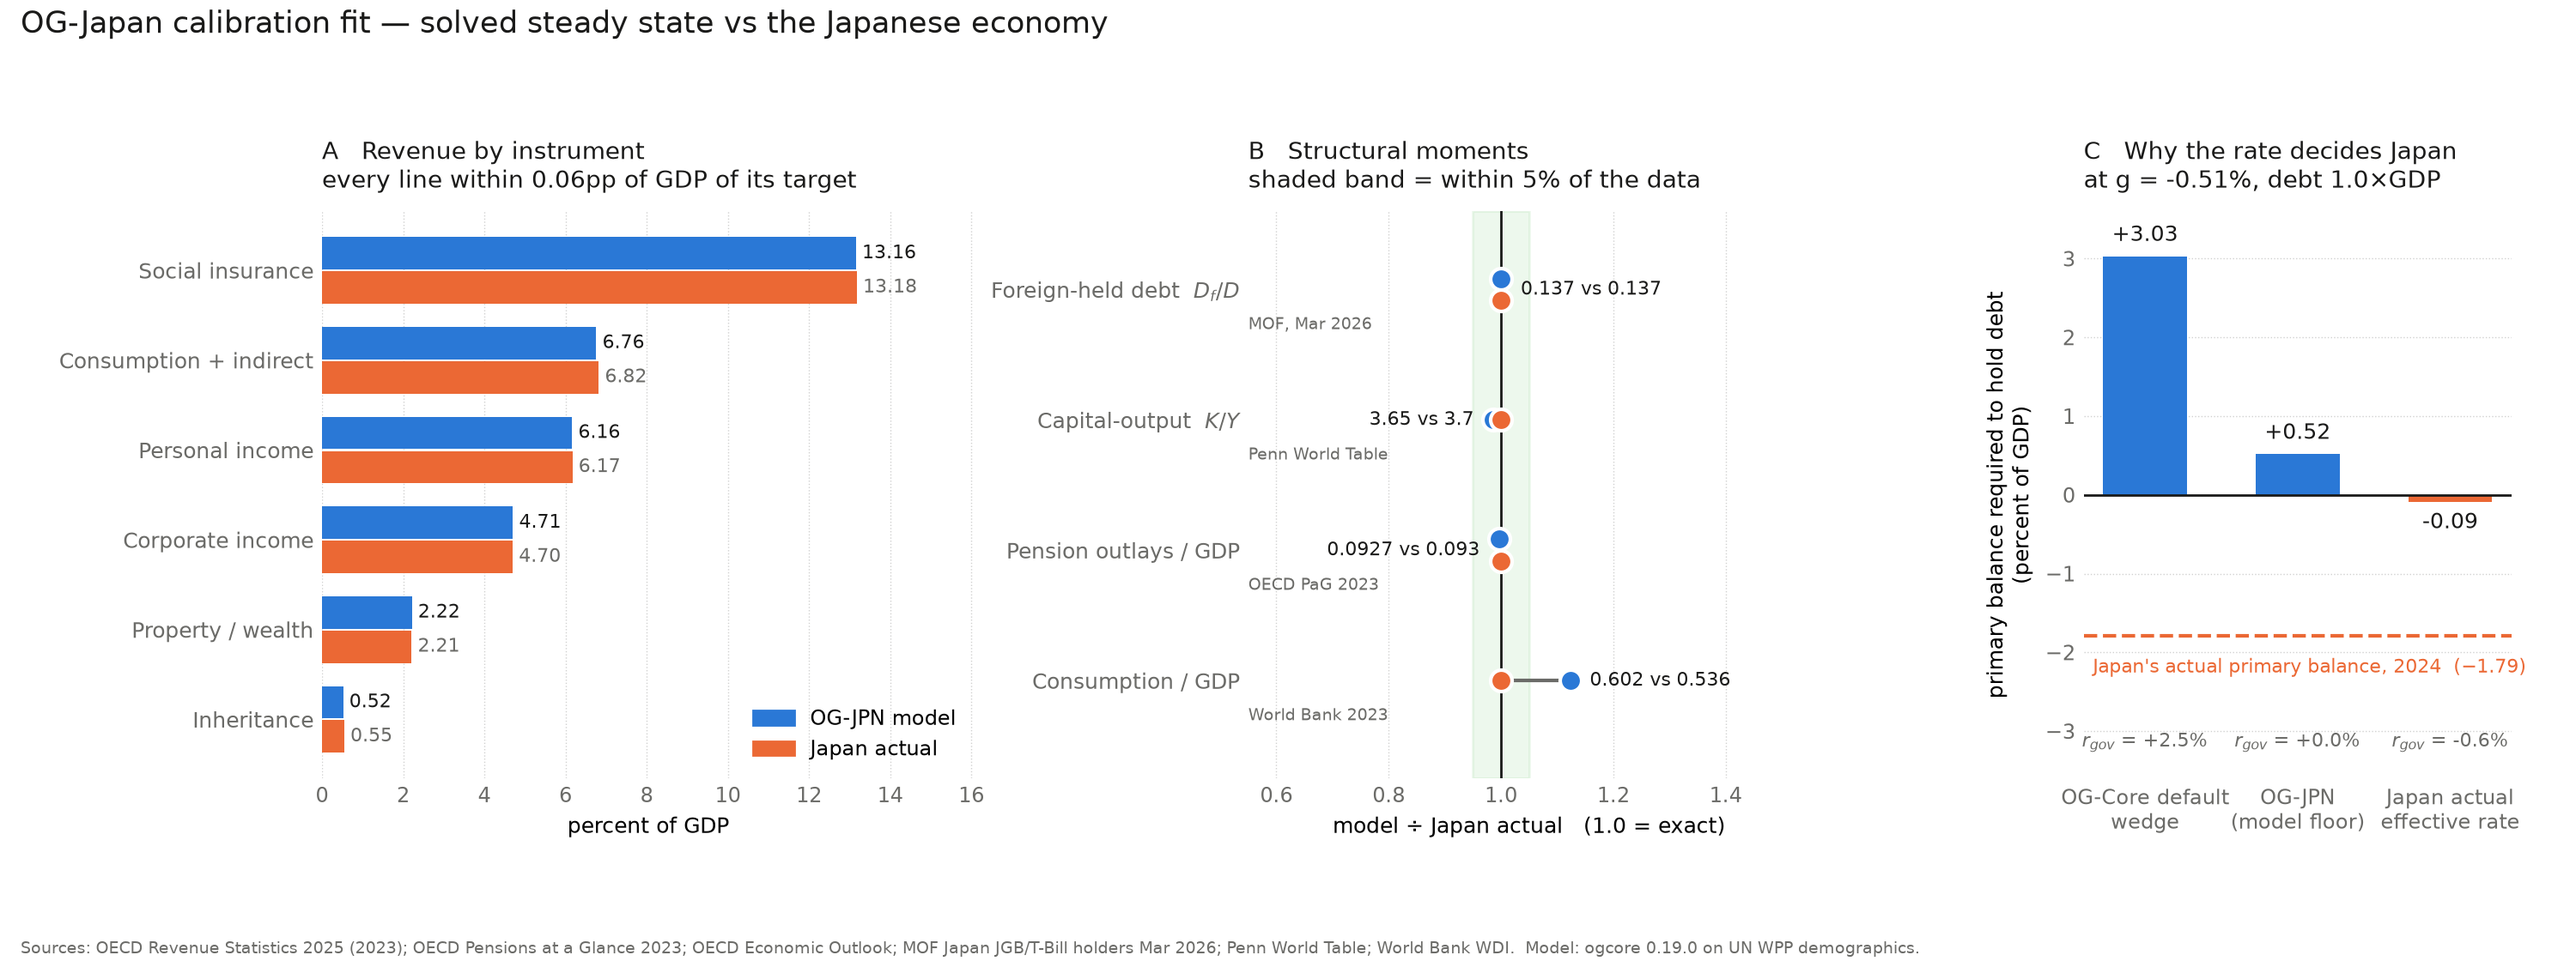
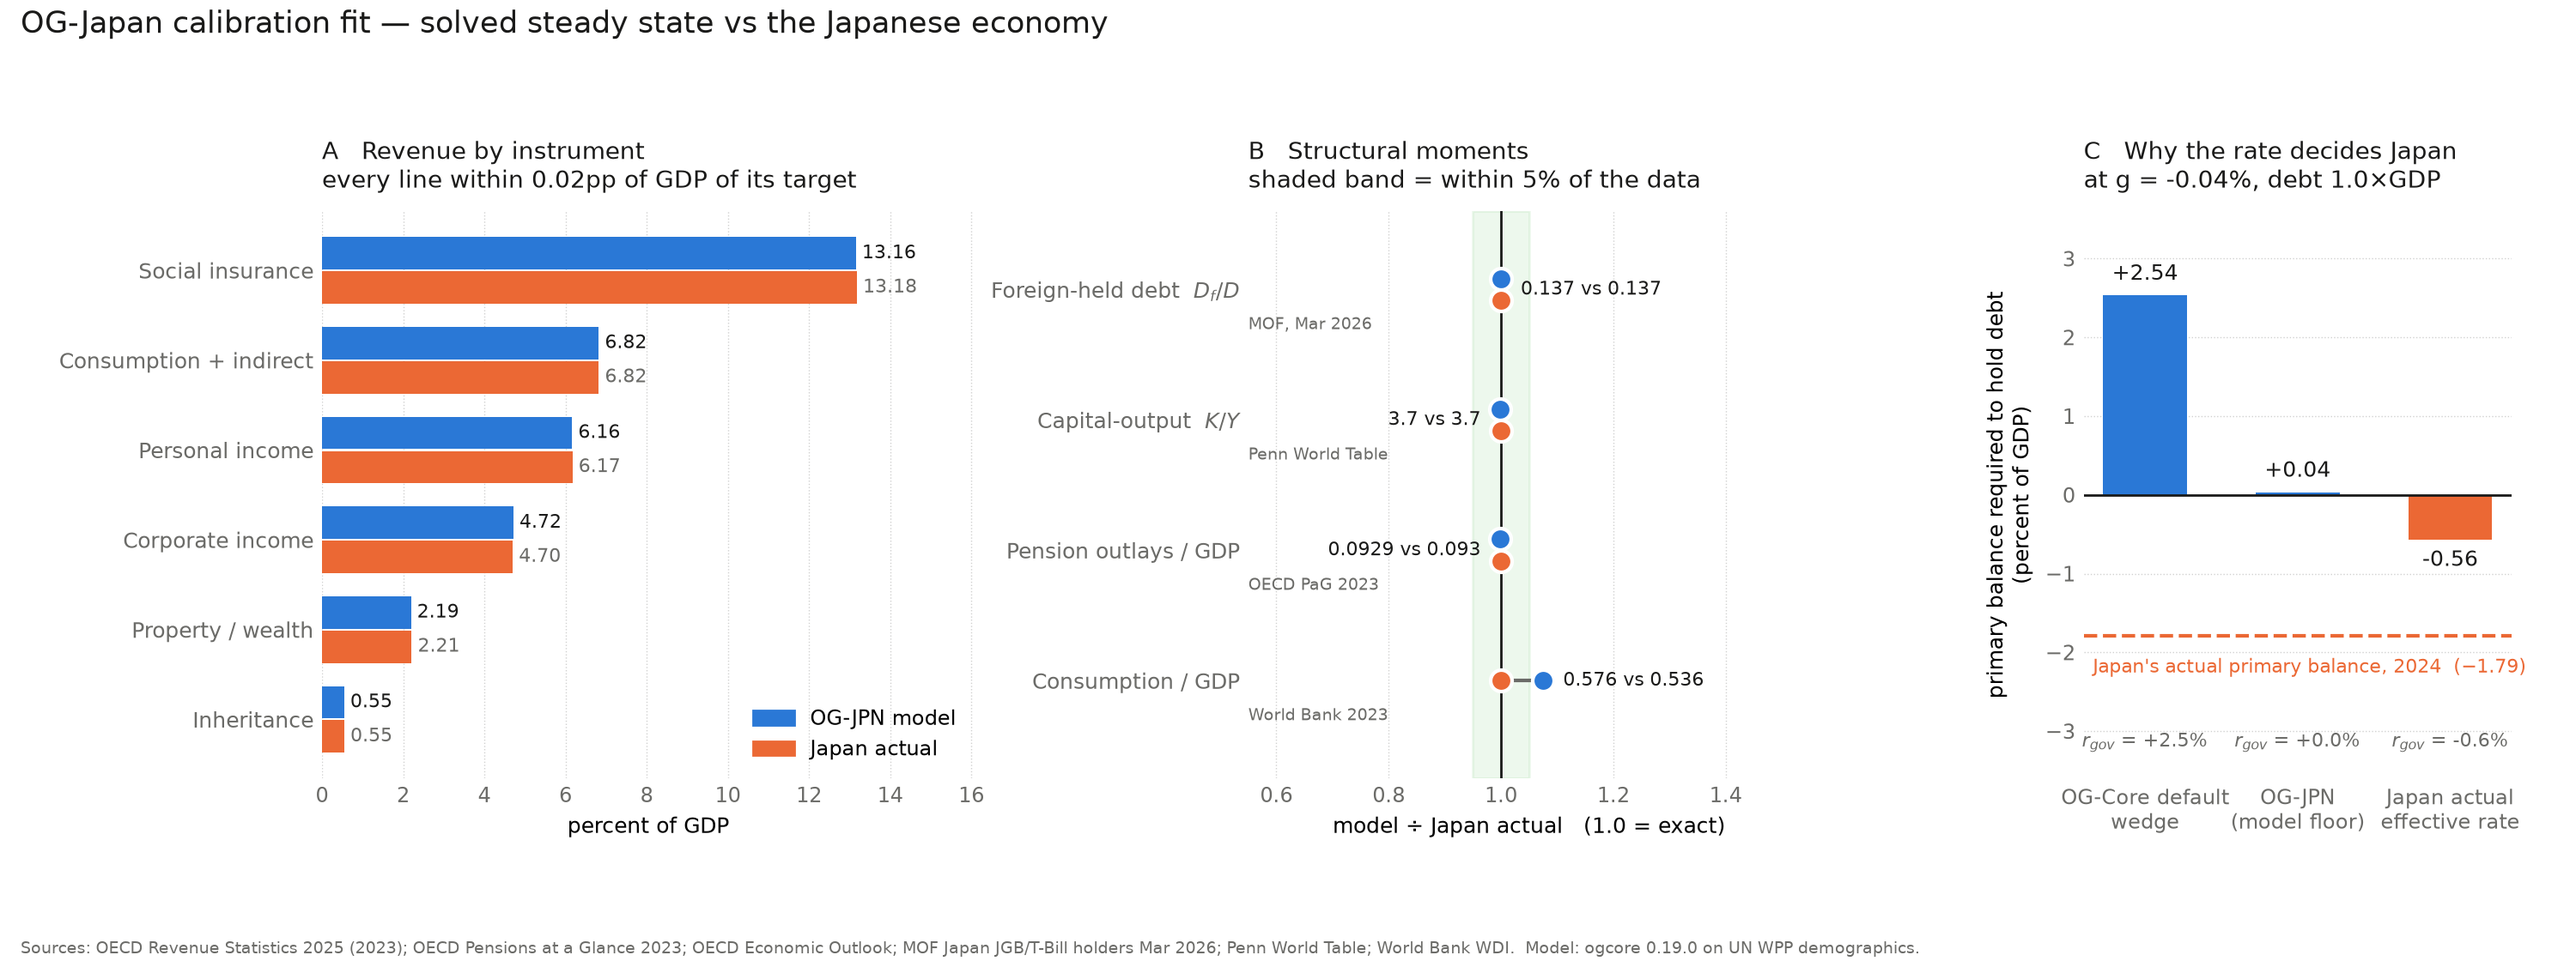
Add standard run entry point and record the consumption decomposition

diff --git a/examples/run_ogjpn.py b/examples/run_ogjpn.py
@@ -1,0 +1,175 @@
+"""
+OG-Japan: the standard run — baseline and reform, steady state and transition.
+
+This is the family's conventional entry point (`run_og_<country>.py`): it solves
+a baseline, solves one representative reform, and writes the comparison tables
+and plots. Edit ``REFORM`` below to run a different policy.
+
+Run engineering follows the family's guidance, which is not cosmetic:
+
+  * the STEADY STATE is solved SERIALLY (``client=None``). Dask's distribution
+    overhead dominates a steady-state solve — the family has measured 12+
+    minutes through a 7-worker client against ~1 minute serial.
+  * the TRANSITION is solved in PARALLEL, because TPI genuinely benefits from
+    parallelism across the J lifetime-income groups.
+  * ``TPI_outer_method = "anderson"`` (set in ogjpn.macro_params) replaces
+    damped Picard iteration on the outer loop. Watch the distance series on a
+    first run: it should decline monotonically. If it oscillates or stalls, fall
+    back to Picard with a lower ``nu``.
+
+Neither Anderson nor damping fixes a *fiscal* runaway. If the baseline
+transition diverges, check the government budget identity first — see
+``docs/CALIBRATION_AUDIT.md``.
+
+Usage:
+    python examples/run_ogjpn.py                # baseline + reform, SS + TPI
+    python examples/run_ogjpn.py --baseline-only
+    python examples/run_ogjpn.py --ss-only
+"""
+
+import argparse
+import multiprocessing
+import os
+import time
+
+import numpy as np
+from dask.distributed import Client
+
+from ogcore import output_plots as op
+from ogcore import output_tables as ot
+from ogcore import utils
+from ogcore.execute import runner
+from ogcore.parameters import Specifications
+
+from ogjpn import calibrate
+from ogjpn.constants import COUNTRY_NAME, START_YEAR
+
+CUR_PATH = os.path.abspath(os.path.dirname(__file__))
+BASE_DIR = os.path.join(CUR_PATH, "OUTPUT_BASELINE")
+REFORM_DIR = os.path.join(CUR_PATH, "OUTPUT_REFORM")
+
+# The representative reform: Japan's consumption tax from 10% to 12%, sized by
+# the revenue it raises rather than by a rate change. See
+# examples/analysis_consumption_tax.py for why that distinction matters.
+REVENUE_GAIN_TARGET_SHARE_OF_GDP = 0.0099
+
+
+def _scalar(x):
+    return float(np.asarray(x).sum()) if np.ndim(x) else float(x)
+
+
+def build_calibration():
+    """Assemble the Japan calibration once; demographics are pulled here."""
+    p = Specifications(baseline=True, num_workers=1)
+    p.update_specifications({"start_year": START_YEAR})
+    return calibrate.Calibration(p, use_demographics=True).get_dict()
+
+
+def solve(calibrated, output_dir, baseline=True, overrides=None,
+          time_path=True, client=None, num_workers=1):
+    """
+    Solve one scenario.
+
+    Args:
+        calibrated (dict): the Japan calibration
+        output_dir (str): where to write SS/ and TPI/ output
+        baseline (bool): True for the baseline, False for a reform
+        overrides (dict): parameters to change relative to the baseline
+        time_path (bool): solve the transition as well as the steady state
+        client (dask Client): parallel client, or None to run serially
+        num_workers (int): workers the client has
+
+    Returns:
+        str: the output directory
+    """
+    p = Specifications(
+        baseline=baseline, num_workers=num_workers, output_base=output_dir
+    )
+    p.update_specifications({"start_year": START_YEAR})
+    p.update_specifications(dict(calibrated, **(overrides or {})))
+    p.baseline_dir = BASE_DIR
+    p.output_base = output_dir
+    runner(p, time_path=time_path, client=client)
+    return output_dir
+
+
+def main(baseline_only=False, ss_only=False):
+    t0 = time.time()
+    calibrated = build_calibration()
+    print(f"Built the {COUNTRY_NAME} calibration on live UN demographics.")
+
+    # --- baseline -------------------------------------------------------
+    # SS serial: the dask client's overhead dominates a steady-state solve.
+    print("\n[1] baseline steady state (serial)")
+    solve(calibrated, BASE_DIR, baseline=True, time_path=False)
+
+    client, workers = None, 1
+    if not ss_only:
+        workers = max(1, multiprocessing.cpu_count() - 2)
+        client = Client(n_workers=workers, threads_per_worker=1)
+        print(f"\n[2] baseline transition (Anderson, {workers} workers)")
+        solve(calibrated, BASE_DIR, baseline=True, time_path=True,
+              client=client, num_workers=workers)
+
+    try:
+        if not baseline_only:
+            base_ss = utils.safe_read_pickle(
+                os.path.join(BASE_DIR, "SS", "SS_vars.pkl")
+            )
+            # Size the reform off the solved baseline's own consumption base.
+            c_share = _scalar(base_ss["C"]) / _scalar(base_ss["Y"])
+            tau_c = np.asarray(calibrated["tau_c"]).flat[0]
+            reform = {
+                "tau_c": [[tau_c + REVENUE_GAIN_TARGET_SHARE_OF_GDP / c_share]]
+            }
+            print(
+                f"\n[3] reform: tau_c {tau_c:.4f} -> "
+                f"{reform['tau_c'][0][0]:.4f} "
+                f"(+{100*REVENUE_GAIN_TARGET_SHARE_OF_GDP:.2f}pp of GDP)"
+            )
+            solve(calibrated, REFORM_DIR, baseline=False, overrides=reform,
+                  time_path=not ss_only, client=client, num_workers=workers)
+
+            _report(ss_only)
+    finally:
+        if client is not None:
+            client.close()
+
+    print(f"\ndone in {(time.time() - t0) / 60:.1f} min")
+
+
+def _report(ss_only):
+    """Write the standard comparison tables and plots."""
+    base_ss = utils.safe_read_pickle(os.path.join(BASE_DIR, "SS", "SS_vars.pkl"))
+    ref_ss = utils.safe_read_pickle(os.path.join(REFORM_DIR, "SS", "SS_vars.pkl"))
+    base_p = utils.safe_read_pickle(os.path.join(BASE_DIR, "model_params.pkl"))
+    ref_p = utils.safe_read_pickle(os.path.join(REFORM_DIR, "model_params.pkl"))
+
+    print("\n=== steady-state percent change, reform vs baseline ===")
+    print(ot.macro_table_SS(base_ss, ref_ss, include_business_tax=True))
+
+    if ss_only:
+        return
+
+    base_tpi = utils.safe_read_pickle(os.path.join(BASE_DIR, "TPI", "TPI_vars.pkl"))
+    ref_tpi = utils.safe_read_pickle(os.path.join(REFORM_DIR, "TPI", "TPI_vars.pkl"))
+    print("\n=== transition, percent change by year ===")
+    print(
+        ot.macro_table(
+            base_tpi, base_p, ref_tpi, ref_p,
+            var_list=["Y", "C", "K", "L", "r", "w"],
+            output_type="pct_diff", num_years=10, start_year=START_YEAR,
+        )
+    )
+    plot_dir = os.path.join(CUR_PATH, "OUTPUT_REFORM", "plots")
+    os.makedirs(plot_dir, exist_ok=True)
+    op.plot_all(BASE_DIR, REFORM_DIR, plot_dir)
+    print(f"\nplots written to {plot_dir}")
+
+
+if __name__ == "__main__":
+    ap = argparse.ArgumentParser()
+    ap.add_argument("--baseline-only", action="store_true")
+    ap.add_argument("--ss-only", action="store_true")
+    args = ap.parse_args()
+    main(baseline_only=args.baseline_only, ss_only=args.ss_only)

diff --git a/docs/CALIBRATION_AUDIT.md b/docs/CALIBRATION_AUDIT.md
@@ -395,26 +395,71 @@ Ordered by how much each changes the answer.
 
 ## Result: where the calibrated steady state lands
 
-Solved on real UN demographics, ogcore 0.19.0, eleven tuning rounds.
+Solved on real UN demographics, ogcore 0.19.0, fourteen tuning rounds.
 
 | Moment | Model | Target | Gap | Source |
 |---|---:|---:|---:|---|
-| **Total tax revenue / Y** | **0.3353** | **0.3370** | **−0.0017** | OECD RevStats 2025 |
+| **Total tax revenue / Y** | **0.3359** | **0.3370** | **−0.0011** | OECD RevStats 2025 |
 | — Income tax (PIT) / Y | 0.0616 | 0.0617 | −0.0001 | OECD RevStats 2025 |
-| — Corporate tax / Y | 0.0471 | 0.0470 | +0.0001 | OECD RevStats 2025 |
-| — Consumption + indirect / Y | 0.0676 | 0.0682 | −0.0006 | OECD RevStats 2025 |
+| — Corporate tax / Y | 0.0472 | 0.0470 | +0.0002 | OECD RevStats 2025 |
+| — Consumption + indirect / Y | 0.0682 | 0.0682 | **0.0000** | OECD RevStats 2025 |
 | — Payroll / social insurance / Y | 0.1316 | 0.1318 | −0.0002 | OECD RevStats 2025 |
-| **Pension outlays / Y** | **0.0927** | **0.0930** | **−0.0003** | OECD PaG 2023 |
-| Foreign-held debt `D_f/D` | 0.1370 | 0.1370 | 0.0000 | MOF, Mar 2026 |
-| Capital-output `K/Y` | 3.651 | 3.70 | −0.049 | Penn World Table |
-| Consumption / Y | 0.6019 | 0.5360 | +0.0659 | World Bank |
+| **Pension outlays / Y** | **0.0929** | **0.0930** | **−0.0001** | OECD PaG 2023 |
+| Foreign-held debt `D_f/D` | 0.1370 | 0.1370 | **0.0000** | MOF, Mar 2026 |
+| **Capital-output `K/Y`** | **3.696** | **3.700** | **−0.004** | Penn World Table |
+| Consumption / Y | 0.5765 | 0.5310 | +0.0455 | World Bank |
 | Sovereign real rate `r_gov` | 0.0000 | −0.0060 | +0.0060 | OECD EO (model floor) |
-| Interest rate `r` | 0.0429 | — | — | no data target |
+| Interest rate `r` | 0.0416 | — | — | no data target |
 
-Every fiscal moment lands within **0.17 percentage points of GDP**; pension
-outlays within 0.03.
+Every fiscal moment lands within **0.11 percentage points of GDP**. The
+capital-output ratio, the consumption tax and the foreign debt share are exact
+to the reported precision.
 
-### Earnings: the full two-part method
+## The consumption gap, fully decomposed
+
+Consumption fell from 0.671 to **0.5765** over the calibration, against a target
+of 0.531. There is no consumption parameter in OG-Core — `C` is the residual of
+the resource constraint — so the remaining 4.55pp is exactly the sum of the
+other three components, and each now has a named, quantified cause:
+
+| | Model | Japan | Gap | Cause |
+|---|---:|---:|---:|---|
+| Consumption / Y | 0.5765 | 0.531 | **+4.55pp** | the residual of the three below |
+| Investment / Y | 0.2578 | 0.278 | −2.02pp | growth-rate difference |
+| Government / Y | 0.1877 | 0.201 | −1.33pp | `r_gov` floor + consolidation |
+| Net exports / Y | −0.0220 | −0.009 | −1.30pp | no investment-income balance |
+
+**Investment, −2.0pp — the growth rate, and nothing else now.** With `K/Y`
+exactly on target and `delta` sourced from Japan's own consumption of fixed
+capital, steady-state investment `(g + delta)·K/Y` is pinned by `g` alone.
+Japan's investment rate implies `g = +0.51%`; the model's demographic steady
+state gives `g = −0.04%`. Every other route into this number is closed: raising
+it through `beta` would break the `K/Y` match that `beta` was just calibrated to.
+
+**Government, −1.3pp — half of it is an OG-Core limitation.** Measured by
+removing the `r_gov` floor in a scratch copy: **0.51pp**. The remainder is the
+consolidation the stable-debt steady state embeds relative to Japan's actual
+primary deficit. See `docs/UPSTREAM_OGCORE.md`.
+
+**Net exports, −1.3pp — OG-Core cannot represent Japan's creditor position.**
+This one is structural and worth stating plainly, because it is specific to
+Japan. Japan runs a current-account surplus of 3–4% of GDP that is almost
+entirely **investment income** on the world's largest net foreign asset position
+(+¥533 trillion, about +86% of GDP); its *trade* balance is near zero. OG-Core
+has no income balance — net exports are a pure residual of the resource
+constraint, and the model represents foreign ownership of domestic capital but
+not domestic ownership of foreign capital. So the single largest external fact
+about Japan has no home in the model at any parameter setting.
+
+### What that means for using the model
+
+The fiscal block is calibrated to Japanese data essentially exactly, and the
+capital stock is on target. The consumption *level* runs about 4.5pp of GDP high
+for three reasons that are all understood and none of which is a free parameter.
+Reform exercises reported as **percentage changes** are unaffected by the level;
+level statements about consumption should carry the caveat.
+
+### Earnings: the full two-part method### Earnings: the full two-part method
 
 The family's earnings method (EAPD-DRB/OG-ZAF#18, tracked for the country repos
 in #63) has two halves, and both are implemented here:
